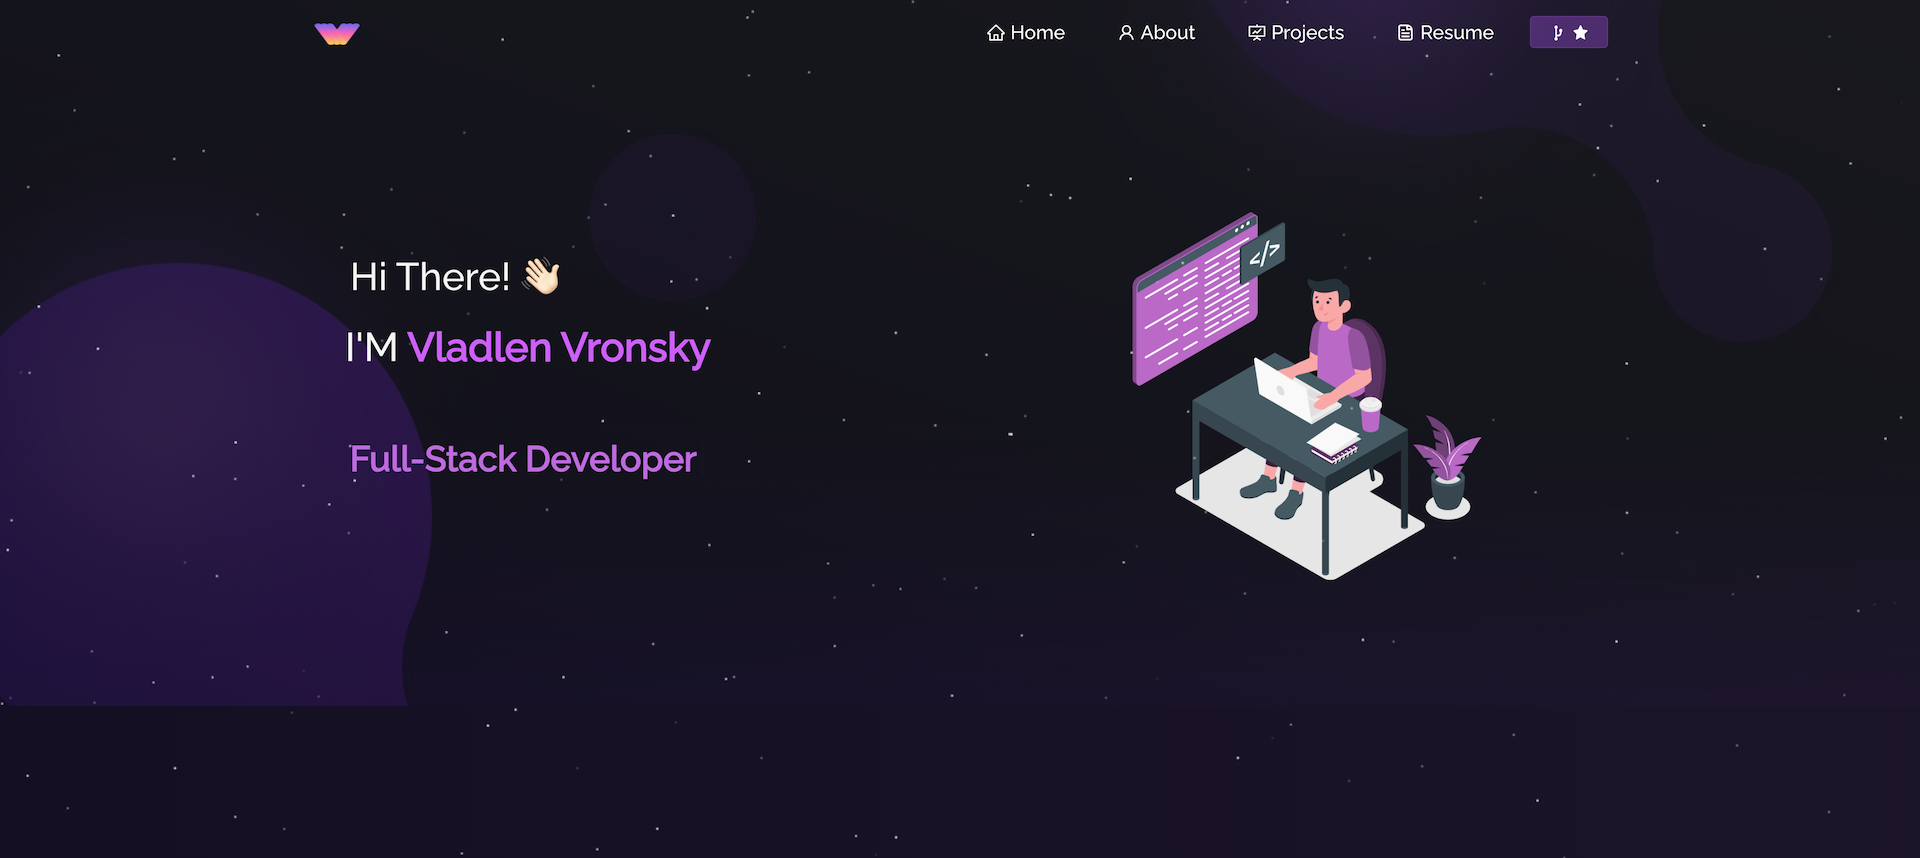
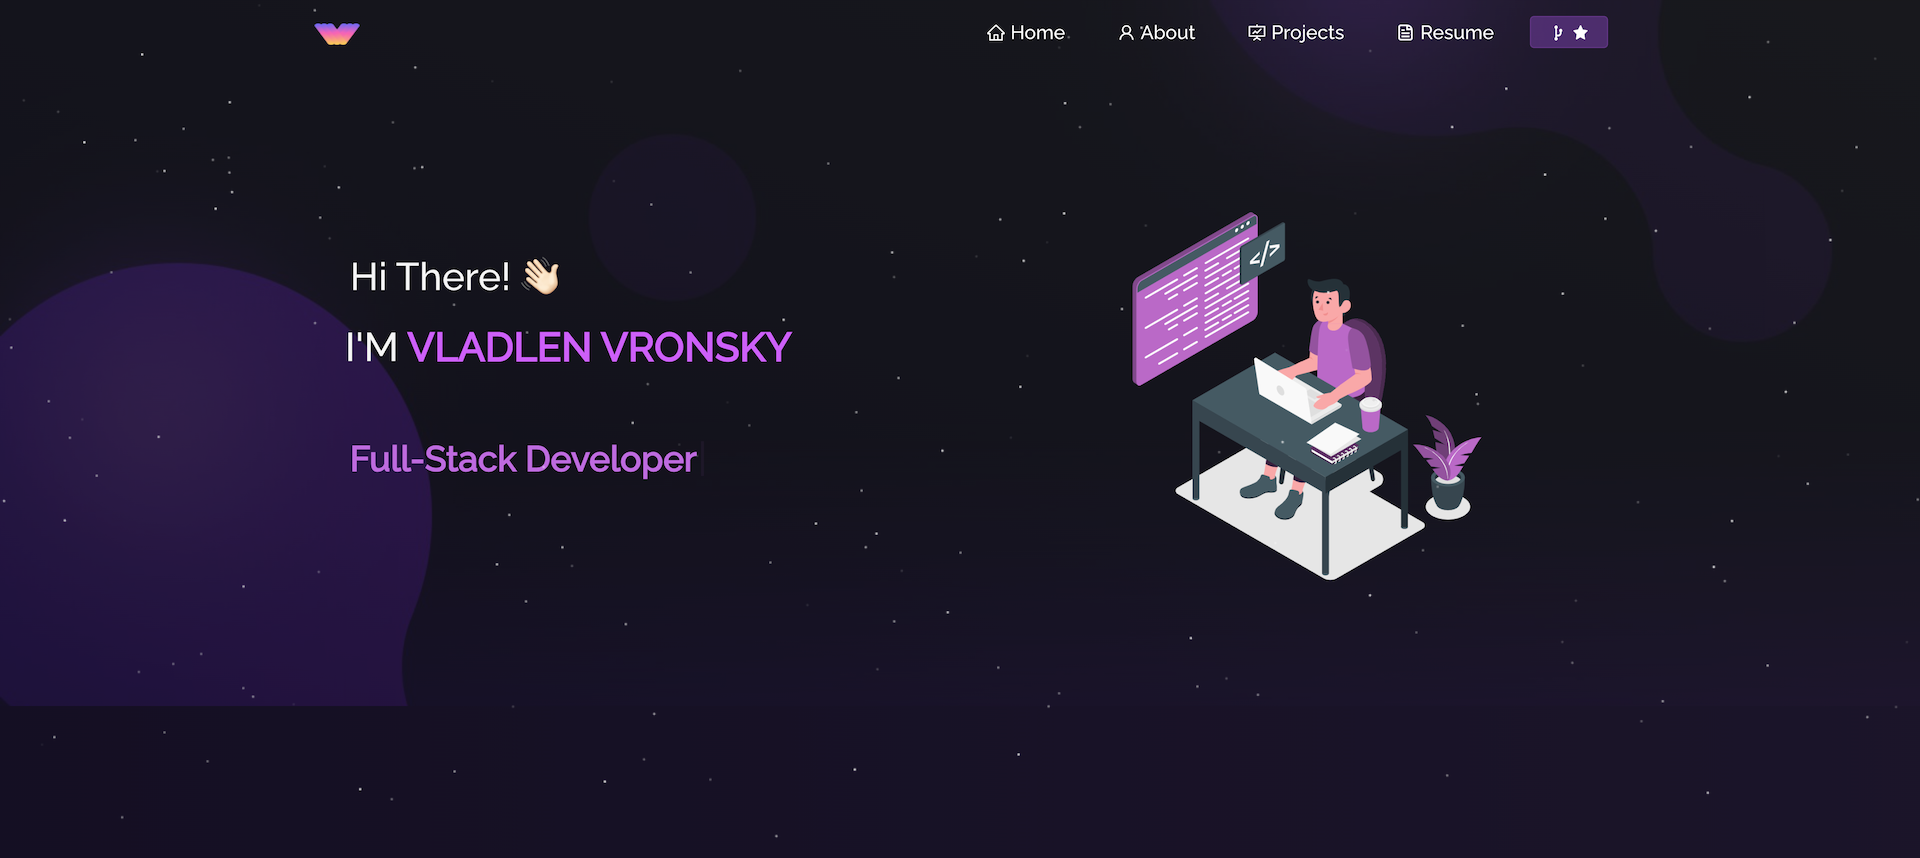
Home Page Edits

Changed region(s): [[0.2188, 0.3636, 0.4062, 0.4242], [0.25, 0.303, 0.2812, 0.3333]]

diff --git a/src/components/Home/Home2.js b/src/components/Home/Home2.js
@@ -19,12 +19,11 @@ function Home2() {
               LET ME <span className="purple"> INTRODUCE </span> MYSELF
             </h1>
             <p className="home-about-body">
-              I fell in love with programming and I have at least learnt
-              something, I think… 🤷♂
+              I fell in love with programming after I was introduced to it during my time in sales and marketing.
               <br />
-              <br />I am fluent in classics like
+              <br />I am fluent in languages like
               <i>
-                <b className="purple"> C++, Javascript and Python. </b>
+                <b className="purple"> Javascript, Python, and Solidity. </b>
               </i>
               <br />
               <br />
@@ -33,12 +32,12 @@ function Home2() {
                 <b className="purple">Web Technologies and Products </b> and
                 also in areas related to{" "}
                 <b className="purple">
-                  Deep Learning and Natural Launguage Processing.
+                  Trading, Blockchain, and Deep Learning.
                 </b>
               </i>
               <br />
               <br />
-              Whenever possible, I also apply my passion for developing products
+              Whenever possible, I apply my passion for developing products
               with <b className="purple">Node.js</b> and
               <i>
                 <b className="purple">

diff --git a/public/index.html b/public/index.html
@@ -15,7 +15,7 @@
   <meta itemprop="name" content="Vlad's | Portfolio">
   <meta itemprop="description" content="Self Developed personal website build with React.js">
   <meta itemprop="image"
-    content="https://i.imgur.com/NIhkcVu.png">
+    content="https://i.imgur.com/yW9KyGG.png">
 
   <!-- Facebook Meta Tags --> <!-- Change these tags to reflect my creation... -->
   <meta property="og:url" content="https://soumyajit.vercel.app">
@@ -23,14 +23,14 @@
   <meta property="og:title" content="Vlad's | Portfolio">
   <meta property="og:description" content="Self Developed personal website build with React.js">
   <meta property="og:image"
-    content="https://i.imgur.com/NIhkcVu.png">
+    content="https://i.imgur.com/yW9KyGG.png">
 
   <!-- Twitter Meta Tags -->
   <meta name="twitter:card" content="summary_large_image">
   <meta name="twitter:title" content="Vlad's | Portfolio">
   <meta name="twitter:description" content="Self Developed personal website build with React.js">
   <meta name="twitter:image"
-    content="https://i.imgur.com/NIhkcVu.png">
+    content="https://i.imgur.com/yW9KyGG.png">
 </head>
 
 <body>

diff --git a/src/components/Footer.js b/src/components/Footer.js
@@ -17,7 +17,7 @@ function Footer() {
           <h3>Designed and Developed by Vladlen Vronsky</h3>
         </Col>
         <Col md="4" className="footer-copywright">
-          <h3>Copyright © {year} SB</h3>
+          <h3>Copyright © {year} VV</h3>
         </Col>
         <Col md="4" className="footer-body">
           <ul className="footer-icons">

diff --git a/src/components/Home/Home.js b/src/components/Home/Home.js
@@ -22,7 +22,7 @@ function Home() {
 
               <h1 className="heading-name">
                 I'M
-                <strong className="main-name"> Vladlen Vronsky</strong>
+                <strong className="main-name"> VLADLEN VRONSKY</strong>
               </h1>
 
               <div style={{ padding: 50, textAlign: "left" }}>
